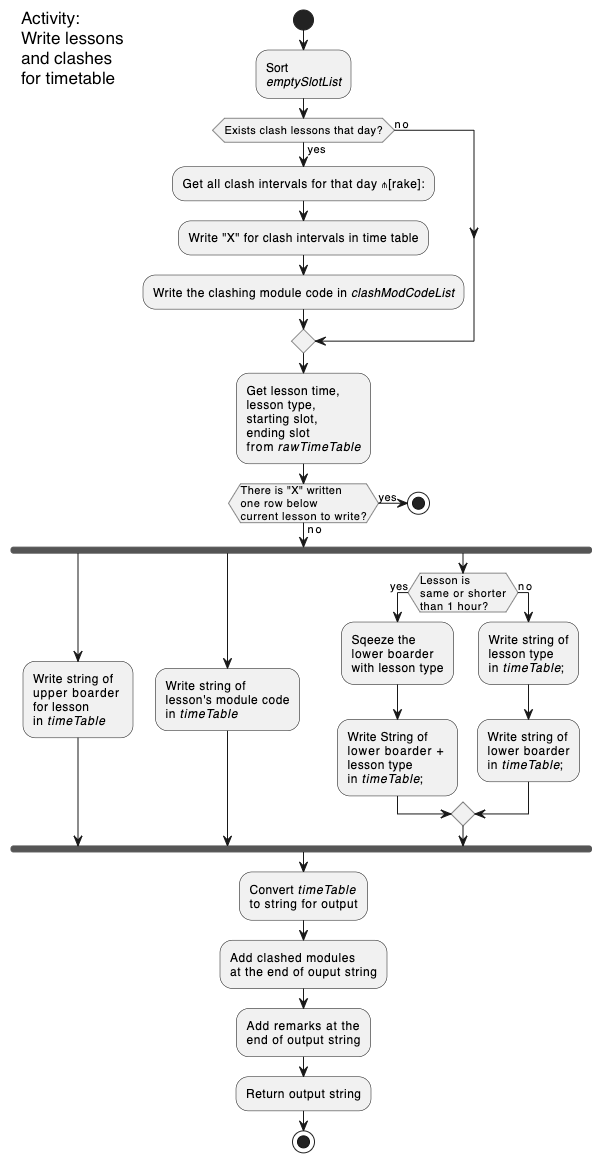
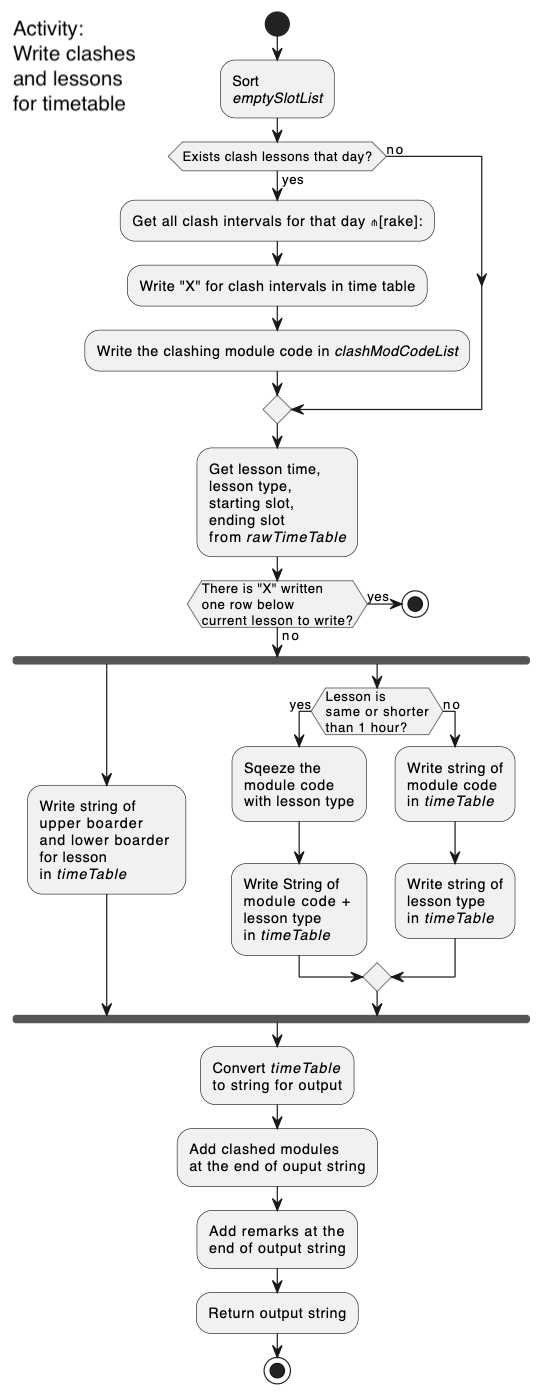
Fixed Printtimetable bug; Added DG

diff --git a/src/main/java/seedu/duke/commands/CommandPrintTimetable.java b/src/main/java/seedu/duke/commands/CommandPrintTimetable.java
@@ -10,6 +10,8 @@ import java.util.List;
 import java.util.Objects;
 import java.util.Comparator;
 import java.util.Stack;
+import java.util.Deque;
+import java.util.LinkedList;
 import java.util.Collections;
 import java.util.logging.Logger;
 
@@ -21,14 +23,14 @@ public class CommandPrintTimetable {
 
     private static final String[] DAYS_IN_WEEK = {"MON", "TUE", "WED", "THU", "FRI"};
     private static final Integer FIRST_HOUR = 8; // timetable start at 0800
-    private static final Integer COLUMN_WIDTH = 13;
+    private static final Integer COLUMN_WIDTH = 15;
     private static final Integer LEFT_PADDING = 3;
     private static final Integer TOP_PADDING = 1;
     private static final Integer COLUMN_PADDING = 1;
     private static final Integer ROW_DIFFERENCE = 3; // difference between api data and timetable here
     private static final Integer DAY_PER_WEEK = 5; // only considering Mon to Fri
-    private static final Integer TIMETABLE_WIDTH = 78;
-    private static final Integer TIMETABLE_TIME_WIDTH = 13;
+    private static final Integer TIMETABLE_WIDTH = 90;
+    private static final Integer TIMETABLE_TIME_WIDTH = 15;
     private static final Integer TIMETABLE_HEIGHT = 32;
     private static final Integer END_SLOT_DIFFERENCE = 1;
     private static final Logger lgr = Logger.getLogger(Logger.GLOBAL_LOGGER_NAME);
@@ -265,7 +267,8 @@ public class CommandPrintTimetable {
             StringBuilder upperBoarder = new StringBuilder();
             StringBuilder lowerBoarder = new StringBuilder();
 
-            buildLowBoarder(modStartSlot, modEndSlot, currentModType, lowerBoarder);
+            //buildLowBoarder(modStartSlot, modEndSlot, currentModType, lowerBoarder);
+            lowerBoarder.append(UI.HORIZONTAL_BORDER.repeat(COLUMN_WIDTH - 1));
             upperBoarder.append(UI.HORIZONTAL_BORDER.repeat(COLUMN_WIDTH - 1));
 
             Integer columnIndex = getDayColumnIndex(day);
@@ -275,20 +278,28 @@ public class CommandPrintTimetable {
 
             if (!nextSlotWritten) {
                 // if no clash is indicated in timetable, write the timetable
-                writeLesson(modStartSlot, currentModCode, currentModType, columnIndex);
+                writeLesson(modStartSlot,modEndSlot, currentModCode, currentModType, columnIndex);
                 writeBoarder(modStartSlot, modEndSlot, upperBoarder, lowerBoarder, columnIndex);
             }
         }
     }
 
-    private static void writeLesson(int start, String code, String type, Integer col) {
+    private static void writeLesson(Integer start, Integer end, String code, String type, Integer col) {
         try {
+            assert end > start : "End slot index is smaller than start index!";
+            Integer lessonHeight = end - start;
             Integer codeRowIndex = start + ROW_DIFFERENCE + 1;
-            write(code, codeRowIndex, col);
             String lessonType = type.substring(0, 3).toUpperCase();
-            // type is printed with first three letters
-            Integer typeRowIndex = start + ROW_DIFFERENCE + 2;
-            write(lessonType, typeRowIndex, col + 1);
+            if (lessonHeight > 2) { // lesson box is large enough
+                write(code, codeRowIndex, col);
+                // type is printed with first three letters
+                Integer typeRowIndex = start + ROW_DIFFERENCE + 2;
+                write(lessonType, typeRowIndex, col + 1);
+            } else {
+                String tightCode = code + " " + lessonType;
+                write(tightCode, codeRowIndex, col);
+            }
+
         } catch (ArrayIndexOutOfBoundsException e) {
             UI.printResponse("index out of bounds when writing lesson");
         }
@@ -320,16 +331,6 @@ public class CommandPrintTimetable {
     }
 
 
-    private static void buildLowBoarder(int startSlot, int endSlot, String modType, StringBuilder lowBoarder) {
-        assert endSlot > startSlot : "End slot index is smaller than start index!";
-        if (endSlot - startSlot < 3) {
-            // lower boarder joins lesson type, height not enough
-            buildNarrowLowBoarder(modType, lowBoarder);
-        } else {
-            String stringToWrite = UI.HORIZONTAL_BORDER.repeat(COLUMN_WIDTH - 1);
-            lowBoarder.append(stringToWrite);
-        }
-    }
 
 
     private static void buildNarrowLowBoarder(String currentModType, StringBuilder lowerBoarder) {
@@ -411,17 +412,20 @@ public class CommandPrintTimetable {
 
         ArrayList<ArrayList<Integer[]>> newEmptySlotList = new ArrayList<>(emptySlotList);
 
-        Stack<Integer[]> stack = new Stack<>();
-        stack.push(newEmptySlotList.get(day).get(0));
+        Deque<Integer[]> deque = new LinkedList<>();
+        deque.push(newEmptySlotList.get(day).get(0));
 
-        sortSlotList(day, stack, newEmptySlotList);
+        Stack<Integer[]> refStack = new Stack<>();
+        refStack.push(newEmptySlotList.get(day).get(0));
+
+        sortSlotList(day, deque, refStack, newEmptySlotList);
 
         populateRawTimetable(listOfModules);
         sortDailySlots(day, emptySlotList);
 
-        ArrayList<Integer[]> clashSlotList = createClashList(stack);
+        ArrayList<Integer[]> clashSlotList = createClashList(deque);
 
-        removeUnclashSlot(day, clashSlotList);
+        removeUnclashSlot(day, clashSlotList, refStack);
         populateClashMod(day, clashSlotList);
 
         return clashSlotList;
@@ -465,50 +469,65 @@ public class CommandPrintTimetable {
     }
 
 
-    private static ArrayList<Integer[]> createClashList(Stack<Integer[]> stack) {
+    private static ArrayList<Integer[]> createClashList(Deque<Integer[]> deque) {
         ArrayList<Integer[]> clashSlotList = new ArrayList<>();
-        while (!stack.isEmpty()) {
-            clashSlotList.add(stack.pop());
+        while (!deque.isEmpty()) {
+            clashSlotList.add(deque.pop());
         }
         return clashSlotList;
     }
 
-    private static void removeUnclashSlot(Integer day, ArrayList<Integer[]> clashSlotList) {
+    private static void removeUnclashSlot(Integer day, ArrayList<Integer[]> clashList, Stack<Integer[]> refStack) {
         ArrayList<Integer> removeIndex = new ArrayList<>();
-        for (Integer[] originalSlot : emptySlotList.get(day)) {
-            calculateSlot(clashSlotList, removeIndex, originalSlot);
+        for (Integer[] untouchedSlot : refStack) {
+            for (Integer[] oldClashSlot : clashList) {
+                boolean isFirstSame = untouchedSlot[0].equals(oldClashSlot[0]);
+                boolean isSecondSame = untouchedSlot[1].equals(oldClashSlot[1]);
+                if (isFirstSame && isSecondSame) {
+                    removeIndex.add(clashList.indexOf(oldClashSlot));
+                }
+            }
         }
 
         Collections.sort(removeIndex, Collections.reverseOrder());
         for (int i : removeIndex) {
-            clashSlotList.remove(i);
+            clashList.remove(i);
         }
+
+
 
     }
 
-    private static void calculateSlot(ArrayList<Integer[]> list, ArrayList<Integer> toDel, Integer[] oldSlot) {
-        for (Integer[] newSlot : list) {
-            boolean isInside = Objects.equals(oldSlot[0], newSlot[0]) && Objects.equals(oldSlot[1], newSlot[1]);
-            if (isInside) {
-                toDel.add(list.indexOf(newSlot));
-            }
-        }
-    }
 
 
-    private static void sortSlotList(Integer day, Stack<Integer[]> stack,ArrayList<ArrayList<Integer[]>> newEsl) {
-        Integer[] top = stack.peek();
+
+
+
+
+    private static void sortSlotList(Integer day, Deque<Integer[]> deque,
+                                     Stack<Integer[]> stack, ArrayList<ArrayList<Integer[]>> newEsl) {
+
         for (int i = 1; i < newEsl.get(day).size(); i++) {
+            Integer[] top = deque.getLast();
             if (top[1] < newEsl.get(day).get(i)[0]) { //[1] is pair.second, [0] is pair.first
+                deque.push(newEsl.get(day).get(i));
                 stack.push(newEsl.get(day).get(i));
             } else if (top[1].equals(newEsl.get(day).get(i)[0])) {
-                continue;
+                deque.push(newEsl.get(day).get(i));
+                stack.push(newEsl.get(day).get(i));
             } else if (top[1] < newEsl.get(day).get(i)[1]) {
                 top[1] = newEsl.get(day).get(i)[1];
+                deque.pop();
+                deque.push(top);
                 stack.pop();
-                stack.push(top);
+            } else {
+                stack.pop();
             }
         }
+
+
+
+
 
     }
 

diff --git a/docs/DeveloperGuide.md b/docs/DeveloperGuide.md
@@ -11,8 +11,8 @@
     - [4.3. Auto-allocating lessons](#43-auto-allocating-lessons)
     - [4.4. Printing the timetable](#44-printing-the-timetable)
         - [4.4.1. Populate lesson data from timetable](#441-populate-lesson-data-from-timetable)
-        - [4.4.2 Write day and time headers for timetable](#442-write-day-and-time-headers-for-timetable)
-        - [4.4.3 Write day and time headers for timetable](#443-write-day-and-time-headers-for-timetable)
+        - [4.4.2. Write day and time headers for timetable](#442-write-day-and-time-headers-for-timetable)
+        - [4.4.3. Write day and time headers for timetable](#443-write-day-and-time-headers-for-timetable)
     - [4.5. Listing current modules](#45-listing-current-modules)
     - [4.6. Getting info on modules](#46-getting-info-on-modules)
     - [4.7. Deleting modules from timetable](#47-deleting-modules-from-timetable)
@@ -155,7 +155,7 @@ The ***Activity Diagram*** below is a simplified depiction of the module `Comman
 
 
 ##### 4.4.3 Write day and time headers for timetable
-<img src="images/printTimetable_3.png" width="380" />
+<img src="images/printTimetable_3.png" width="280" />
 <details><summary>Activity of 4.4.3</summary><p style='text-align: justify;' markdown="1">
 
 - ```emptySlotList```, with pairs of ```integers``` of starting and ending slots for different days in a week, is sorted by the starting slot. This is to prepare for the checking and finding overlapping lesson intervals later.
@@ -181,7 +181,7 @@ The ***Activity Diagram*** below is a simplified depiction of the module `Comman
 - If there are no ```XXXX```  - mark of a clash - proceed to write the lesssons into ```timeTable```: <br>
 &nbsp;&nbsp; &nbsp;&nbsp; (a) Upper boarder of each lesson is written. <br>
 &nbsp;&nbsp; &nbsp;&nbsp; (b) Module code is written in ```timeTable```. <br>
-&nbsp;&nbsp; &nbsp;&nbsp; (c) Depending on the height of the box of lessons, those with 1 hour or less have to squeeze the lower boarder with the lesson type together. Otherwise, write normal lower boarder and lesson type in ```timeTable```. <br>
+&nbsp;&nbsp; &nbsp;&nbsp; (c) Depending on the height of the box of lessons, those with 1 hour or less have to squeeze the module code with the lesson type together. Otherwise, write module code and lesson type below in ```timeTable```. <br>
 
 - ```timeTable``` is converted into strings for output.
 - Module codes which clashes from ```clashedModCodeList``` is appended at the end of the output string
